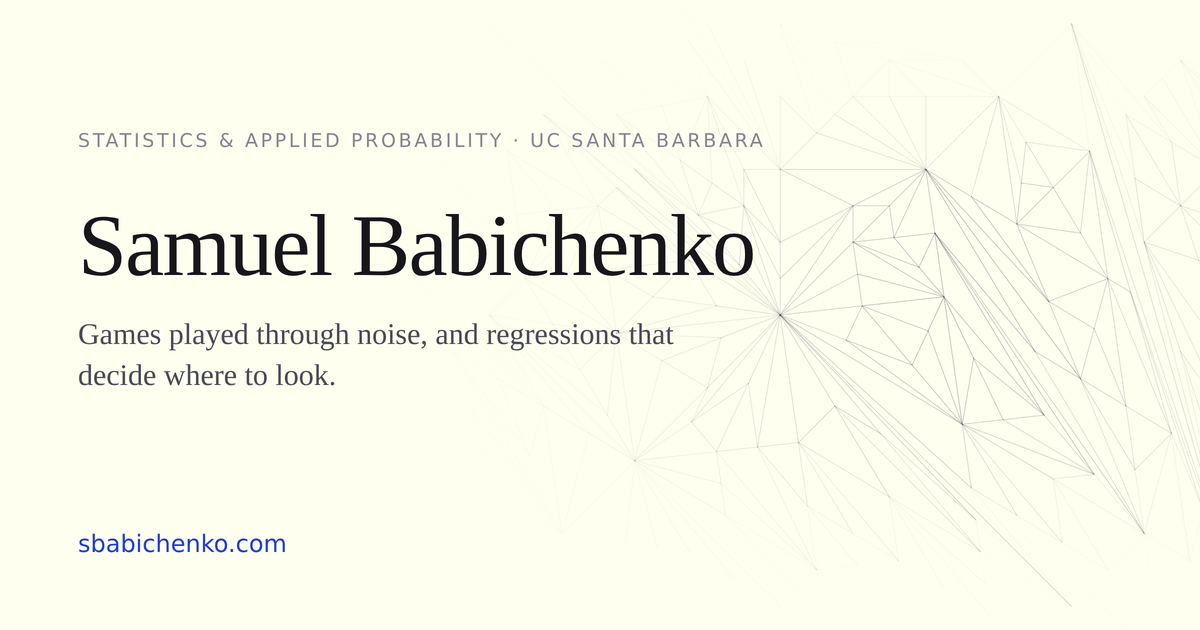
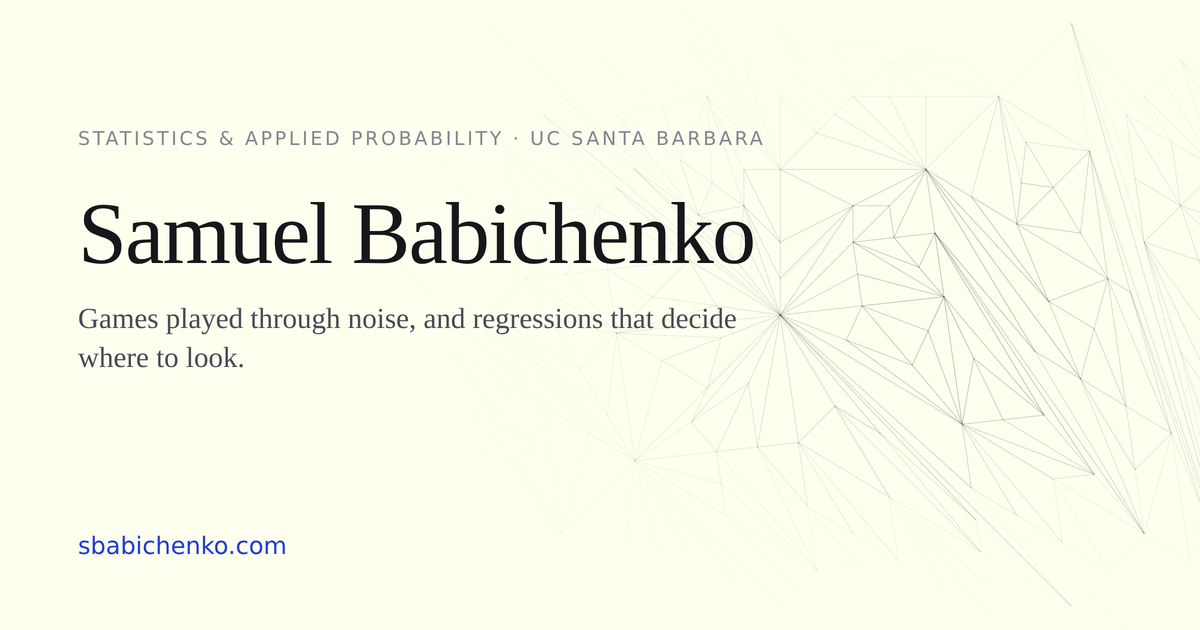
A 404 worth landing on, social cards per page, and a site description that says what is here
tools/make_og.js renders the three cards from the mesh engine and the explorer's kernel family.

diff --git a/tools/make_og.js b/tools/make_og.js
@@ -1,50 +1,92 @@
-// Render the social card: the mesh engine drawing a figure, with the name set over it.
-const { chromium } = require('playwright');
-const fs = require('fs');
-const html = `<!doctype html><html><head><meta charset="utf-8">
+// Render the social cards (static/images/og*.png). The art is drawn, not stock: the mesh cards run
+// the page's own mesh engine in a headless browser; the explorer card uses the kernel family already
+// drawn for the home page. Needs playwright and the site served locally:
+//     node tools/make_og.js [http://127.0.0.1:8770]
+const { chromium } = require("playwright");
+const fs = require("fs");
+const path = require("path");
+
+const BASE = process.argv[2] || "http://127.0.0.1:8770";
+const OUT = path.join(__dirname, "..", "static", "images");
+
+const CARDS = [
+  { out: "og.png", art: "mesh", surface: "hills", seed: 20260924,
+    eyebrow: "Statistics &amp; Applied Probability &middot; UC Santa Barbara",
+    title: "Samuel Babichenko",
+    sub: "Games played through noise, and regressions that decide where to look." },
+  { out: "og-lqg.png", art: "image", src: "/images/card-lqg-light.webp",
+    eyebrow: "sbabichenko.com/lqg",
+    title: "Noise-state game explorer",
+    sub: "Solve a linear-quadratic-Gaussian game in your browser: shock responses, sample paths, sweeps." },
+  { out: "og-mesh.png", art: "mesh", surface: "cliff", seed: 77,
+    eyebrow: "sbabichenko.com/mesh",
+    title: "Decision Mesh",
+    sub: "A regression that keeps cutting itself where the data says a cut is worth it." },
+];
+
+const page = (c) => `<!doctype html><html><head><meta charset="utf-8">
 <link rel="stylesheet" href="https://fonts.googleapis.com/css2?family=Newsreader:opsz,wght@6..72,300..600&display=swap">
 <style>
  html,body{margin:0;width:1200px;height:630px;overflow:hidden}
  body{background:#FFFFF0;position:relative;font-family:Newsreader,Georgia,serif;color:#17171b}
- canvas{position:absolute;inset:0;width:1200px;height:630px}
- .t{position:absolute;left:78px;top:196px;z-index:2}
- h1{font-size:88px;font-weight:400;letter-spacing:-0.02em;margin:0 0 18px}
- p{font-size:30px;color:#4a4a55;margin:0;max-width:640px;line-height:1.35}
- .e{position:absolute;left:78px;top:130px;font-size:19px;letter-spacing:.14em;text-transform:uppercase;color:#85858f;z-index:2;font-family:ui-sans-serif,system-ui,sans-serif}
- .u{position:absolute;left:78px;bottom:72px;font-size:24px;color:#1f3fd0;z-index:2;font-family:ui-sans-serif,system-ui,sans-serif}
+ canvas,img.art{position:absolute;inset:0;width:1200px;height:630px;object-fit:cover}
+ img.art{opacity:.9;object-position:right center;-webkit-mask-image:linear-gradient(100deg,transparent 40%,#000 66%)}
+ .e{position:absolute;left:78px;top:128px;font-size:19px;letter-spacing:.14em;text-transform:uppercase;color:#85858f;z-index:2;font-family:ui-sans-serif,system-ui,sans-serif}
+ .t{position:absolute;left:78px;top:190px;z-index:2}
+ h1{font-size:${c.title.length > 22 ? 72 : 88}px;font-weight:400;letter-spacing:-0.02em;margin:0 0 20px;max-width:760px;line-height:1.02}
+ p{font-size:29px;color:#4a4a55;margin:0;max-width:660px;line-height:1.35}
+ .u{position:absolute;left:78px;bottom:70px;font-size:24px;color:#1f3fd0;z-index:2;font-family:ui-sans-serif,system-ui,sans-serif}
 </style></head><body>
-<canvas id="c" width="2400" height="1260"></canvas>
-<div class="e">Statistics &amp; Applied Probability &middot; UC Santa Barbara</div>
-<div class="t"><h1>Samuel Babichenko</h1><p>Games played through noise, and regressions that decide where to look.</p></div>
+${c.art === "mesh" ? '<canvas id="c" width="2400" height="1260"></canvas>' : `<img class="art" src="${BASE}${c.src}">`}
+<div class="e">${c.eyebrow}</div>
+<div class="t"><h1>${c.title}</h1><p>${c.sub}</p></div>
 <div class="u">sbabichenko.com</div>
-<script src="http://127.0.0.1:8770/mesh/decision-mesh.js"></script>
+<script src="${BASE}/mesh/decision-mesh.js"></script>
 <script>
+const SURFACES = {
+  hills: (x,y) => 2.4*Math.exp(-((x-1.5)**2+(y-1)**2)/2.2) - 2.1*Math.exp(-((x+1.5)**2+(y+1.3)**2)/1.6),
+  cliff: (x,y) => 2.2*Math.tanh(1.3*(x-0.7*y)),
+};
 function mul(a){return function(){a|=0;a=(a+0x6d2b79f5)|0;let t=Math.imul(a^(a>>>15),1|a);t=(t+Math.imul(t^(t>>>7),61|t))^t;return((t^(t>>>14))>>>0)/4294967296;};}
 function gs(r){let u=0;while(u===0)u=r();return Math.sqrt(-2*Math.log(u))*Math.cos(2*Math.PI*r());}
-const f=(x,y)=>2.4*Math.exp(-((x-1.5)**2+(y-1)**2)/2.2)-2.1*Math.exp(-((x+1.5)**2+(y+1.3)**2)/1.6);
-const N=6000,X=new Float64Array(2*N),Y=new Float64Array(N),r=mul(20260924);
-for(let i=0;i<N;i++){const x=-4+8*r(),y=-4+8*r();X[2*i]=x;X[2*i+1]=y;Y[i]=f(x,y)+0.45*gs(r);}
-DM.reset();
-const m=new DM.DecisionMesh(X,Y,{maxAspectRatio:5,minPoints:4,refresh:true,rng:mul(7)});
-for(let i=0;i<2600&&m.activeFaces.size<900;i++) if(m.step(0.08)==='none') break;
-const c=document.getElementById('c'),g=c.getContext('2d'),W=c.width,H=c.height;
-const side=H*1.85, ox=W-side*0.86, oy=(H-side)/2;
-const px=x=>ox+((x+4)/8)*side, py=y=>oy+((4-y)/8)*side;
-const fx=W*0.80, fy=H*0.48, R=0.95*Math.max(W*0.52,H);
-g.lineWidth=1.5; g.lineCap='round';
-for(const e of m.activeEdges){
-  const x0=px(e.v0.x),y0=py(e.v0.y),x1=px(e.v1.x),y1=py(e.v1.y);
-  const mx=(x0+x1)/2,my=(y0+y1)/2;
-  const d=Math.hypot(mx-fx,(my-fy)*0.85)/R; if(d>=1) continue;
-  const band=Math.min(1,Math.min(my,H-my)/(0.28*H));
-  const v=(1-d)*(1-d)*band*band;
-  g.strokeStyle='rgba(20,22,40,'+(0.34*v)+')';
-  g.beginPath(); g.moveTo(x0,y0); g.lineTo(x1,y1); g.stroke();
+const c = document.getElementById('c');
+if (c) {
+  const f = SURFACES[${JSON.stringify(c.surface || "hills")}];
+  const N=6000, X=new Float64Array(2*N), Y=new Float64Array(N), r=mul(${c.seed || 1});
+  for(let i=0;i<N;i++){const x=-4+8*r(),y=-4+8*r();X[2*i]=x;X[2*i+1]=y;Y[i]=f(x,y)+0.45*gs(r);}
+  DM.reset();
+  const m=new DM.DecisionMesh(X,Y,{maxAspectRatio:5,minPoints:4,refresh:true,rng:mul(7)});
+  for(let i=0;i<2600&&m.activeFaces.size<900;i++) if(m.step(0.08)==='none') break;
+  const g=c.getContext('2d'), W=c.width, H=c.height;
+  const side=H*1.85, ox=W-side*0.86, oy=(H-side)/2;
+  const px=x=>ox+((x+4)/8)*side, py=y=>oy+((4-y)/8)*side;
+  const fx=W*0.80, fy=H*0.48, R=0.95*Math.max(W*0.52,H);
+  g.lineWidth=1.5; g.lineCap='round';
+  for(const e of m.activeEdges){
+    const x0=px(e.v0.x),y0=py(e.v0.y),x1=px(e.v1.x),y1=py(e.v1.y);
+    const mx=(x0+x1)/2,my=(y0+y1)/2;
+    const d=Math.hypot(mx-fx,(my-fy)*0.85)/R; if(d>=1) continue;
+    const band=Math.min(1,Math.min(my,H-my)/(0.28*H));
+    const v=(1-d)*(1-d)*band*band;
+    g.strokeStyle='rgba(20,22,40,'+(0.34*v)+')';
+    g.beginPath(); g.moveTo(x0,y0); g.lineTo(x1,y1); g.stroke();
+  }
 }
 document.title='ready';
 </script></body></html>`;
-fs.writeFileSync('/tmp/og.html', html);
-(async()=>{ const b=await chromium.launch(); const p=await b.newPage({viewport:{width:1200,height:630}, deviceScaleFactor:2});
- await p.goto('file:///tmp/og.html'); await p.waitForFunction(()=>document.title==='ready',null,{timeout:60000}); await p.waitForTimeout(900);
- await p.screenshot({path:'/home/claude/site/static/images/og.png'});
- await b.close(); })();
+
+(async () => {
+  const b = await chromium.launch();
+  for (const c of CARDS) {
+    const file = "/tmp/og_card.html";
+    fs.writeFileSync(file, page(c));
+    const p = await b.newPage({ viewport: { width: 1200, height: 630 }, deviceScaleFactor: 2 });
+    await p.goto("file://" + file);
+    await p.waitForFunction(() => document.title === "ready", null, { timeout: 60000 });
+    await p.waitForTimeout(900);
+    await p.screenshot({ path: path.join(OUT, c.out) });
+    await p.close();
+    console.log("wrote", c.out);
+  }
+  await b.close();
+})();

diff --git a/templates/404.html b/templates/404.html
@@ -1,0 +1,45 @@
+{#- Not found. The mesh refines where there is something to find; here there is nothing, so it has
+    left the page blank and points you at the two things worth running. -#}
+<!doctype html>
+<html class="not-ready lg:text-base" lang="{{ lang }}">
+  {% include "partials/head.html" %}
+  <body class="text-black duration-200 ease-out dark:text-white">
+    <link rel="stylesheet" href="{{ get_url(path='css/home.css') }}" />
+    {% include "partials/header.html" %}
+
+    <main class="home">
+      <section class="hero lost">
+        <canvas id="heroink" aria-hidden="true"></canvas>
+        <p class="eyebrow">404</p>
+        <h1>Nothing here</h1>
+        <p class="lede">No page at this address. The mesh only refines where there is something to
+          find, and it found nothing.</p>
+        <p class="lede"><a class="back" href="{{ get_url(path='') }}">Back to the front &rarr;</a></p>
+      </section>
+
+      <section>
+        <h2>Or run something</h2>
+        <div class="demos">
+          <a class="demo slim" href="{{ get_url(path='lqg/') }}">
+            <div class="body">
+              <h3>Games played through noise</h3>
+              <p>Solve a linear-quadratic-Gaussian game in your browser.</p>
+              <span class="go">Open the explorer <span class="arrow">&rarr;</span></span>
+            </div>
+          </a>
+          <a class="demo slim" href="{{ get_url(path='mesh/') }}">
+            <div class="body">
+              <h3>A regression that decides where to look</h3>
+              <p>Watch two geometries and a tree grow on the same noisy data.</p>
+              <span class="go">Watch it grow <span class="arrow">&rarr;</span></span>
+            </div>
+          </a>
+        </div>
+      </section>
+    </main>
+
+    {% include "partials/footer.html" %}
+    <script src="{{ get_url(path='mesh/decision-mesh.js') }}"></script>
+    <script src="{{ get_url(path='js/heroink.js') }}"></script>
+  </body>
+</html>

diff --git a/static/css/home.css b/static/css/home.css
@@ -149,3 +149,9 @@
   .home h2 .note { margin-left: 0; }
   .home .demo .shot { aspect-ratio: 16 / 7; }
 }
+
+/* not found */
+.home .hero.lost { min-height: 20rem; padding-bottom: 0; }
+.home .back { color: var(--accent); font-weight: 600; }
+.home .back:hover { text-decoration: underline; }
+.home .demo.slim .body { padding: 20px; }

diff --git a/content/lqg.md b/content/lqg.md
@@ -5,4 +5,6 @@ path = "lqg"
 template = "explorer.html"
 [extra]
 math = false
+[extra.cover]
+image = "images/og-lqg.png"
 +++

diff --git a/content/mesh.md b/content/mesh.md
@@ -5,4 +5,6 @@ path = "mesh"
 template = "mesh.html"
 [extra]
 math = false
+[extra.cover]
+image = "images/og-mesh.png"
 +++
